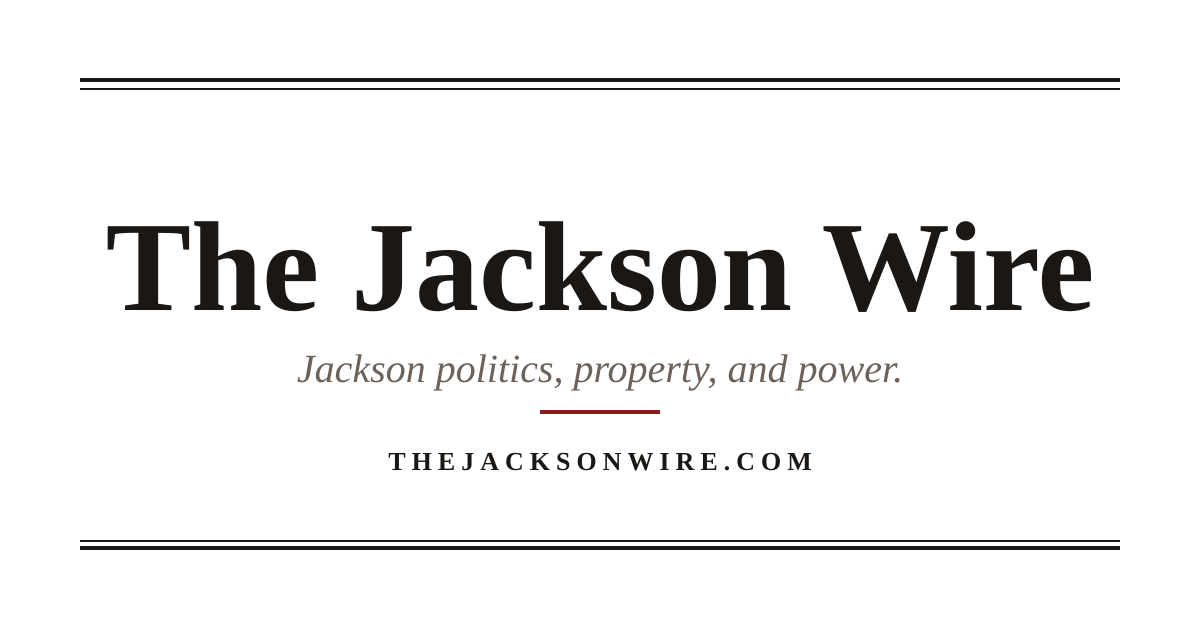
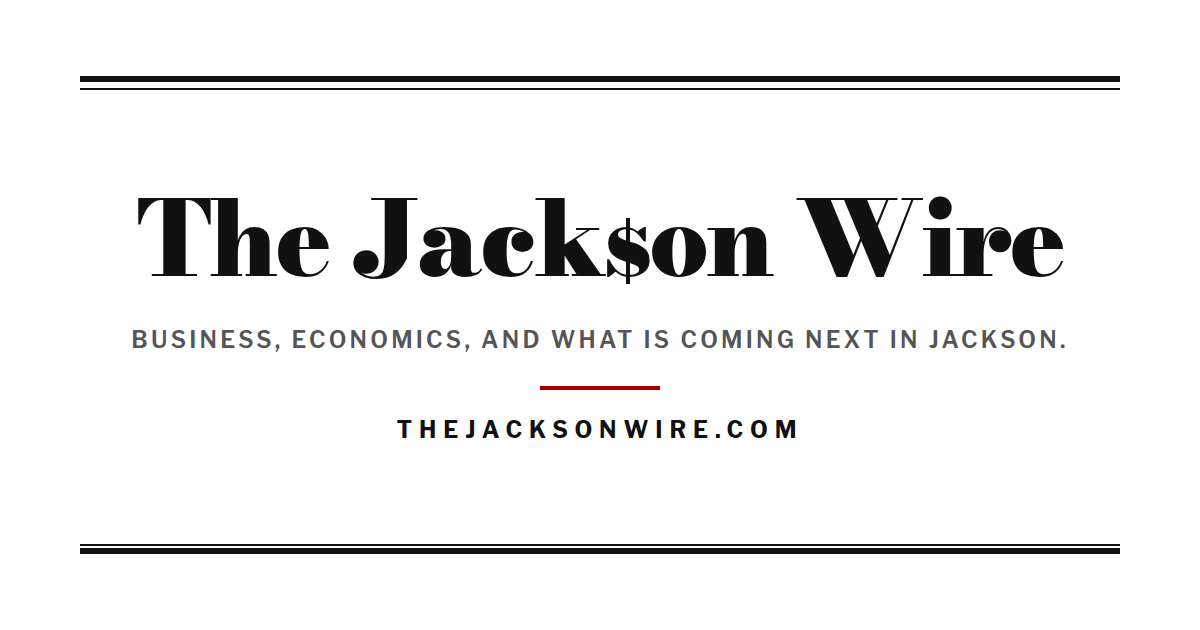
Share image: current tagline and the Jack$on wordmark; no dashes in titles
- app/opengraph-image.png, the picture Facebook and other sites show when
  the home page or a section page is shared, still carried May's tagline,
  "Jackson politics, property, and power." It now shows the current one,
  "Business, economics, and what is coming next in Jackson.", with the
  Jack$on wordmark in the site's fonts. Added alt text for it.
- Page and share titles joined the name with an em dash, which the house
  style keeps out of reader-facing copy. They now use " | ", matching the
  existing title template.

Claude-Session: https://claude.ai/code/session_019QKA2F3fTsuQGsFcDQXe5S

Changed region(s): [[0.0617, 0.3016, 0.925, 0.754], [0.0617, 0.8444, 0.925, 0.9048], [0.0925, 0.1206, 0.925, 0.1508]]

diff --git a/app/meetings/page.tsx b/app/meetings/page.tsx
@@ -20,12 +20,12 @@ export const metadata: Metadata = {
   alternates: { canonical: "/meetings" },
   openGraph: {
     type: "website",
-    title: `The Record — ${site.name}`,
+    title: `The Record | ${site.name}`,
     description: DEK,
     url: absoluteUrl("/meetings"),
     siteName: site.name,
   },
-  twitter: { card: "summary_large_image", title: `The Record — ${site.name}`, description: DEK },
+  twitter: { card: "summary_large_image", title: `The Record | ${site.name}`, description: DEK },
 };
 
 function monthLabel(ym: string): string {
@@ -50,7 +50,7 @@ export default async function MeetingsPage({ searchParams }: PageProps<"/meeting
   const jsonLd = {
     "@context": "https://schema.org",
     "@type": "CollectionPage",
-    name: `The Record — ${site.name}`,
+    name: `The Record | ${site.name}`,
     description: DEK,
     url: absoluteUrl("/meetings"),
     isPartOf: { "@id": absoluteUrl("/#org") },

diff --git a/app/layout.tsx b/app/layout.tsx
@@ -54,7 +54,7 @@ const sourceSerif = Source_Serif_4({
 export const metadata: Metadata = {
   metadataBase: new URL(site.url),
   title: {
-    default: `${site.name} — ${site.tagline}`,
+    default: `${site.name} | ${site.tagline}`,
     template: `%s | ${site.name}`,
   },
   description: site.description,
@@ -68,14 +68,14 @@ export const metadata: Metadata = {
   openGraph: {
     type: "website",
     siteName: site.name,
-    title: `${site.name} — ${site.tagline}`,
+    title: `${site.name} | ${site.tagline}`,
     description: site.description,
     url: site.url,
     locale: "en_US",
   },
   twitter: {
     card: "summary_large_image",
-    title: `${site.name} — ${site.tagline}`,
+    title: `${site.name} | ${site.tagline}`,
     description: site.description,
   },
   // Set NEXT_PUBLIC_GOOGLE_SITE_VERIFICATION in the deployment environment to

diff --git a/app/pipeline/page.tsx b/app/pipeline/page.tsx
@@ -31,14 +31,14 @@ export const metadata: Metadata = {
   alternates: { canonical: "/pipeline" },
   openGraph: {
     type: "website",
-    title: `The Pipeline — ${site.name}`,
+    title: `The Pipeline | ${site.name}`,
     description: DEK,
     url: absoluteUrl("/pipeline"),
     siteName: site.name,
   },
   twitter: {
     card: "summary_large_image",
-    title: `The Pipeline — ${site.name}`,
+    title: `The Pipeline | ${site.name}`,
     description: DEK,
   },
 };
@@ -72,7 +72,7 @@ export default function PipelinePage() {
   const jsonLd = {
     "@context": "https://schema.org",
     "@type": "CollectionPage",
-    name: `The Pipeline — ${site.name}`,
+    name: `The Pipeline | ${site.name}`,
     description: DEK,
     url: absoluteUrl("/pipeline"),
     isPartOf: { "@id": absoluteUrl("/#org") },

diff --git a/app/economy/sales-tax/page.tsx b/app/economy/sales-tax/page.tsx
@@ -58,12 +58,12 @@ export const metadata: Metadata = {
   alternates: { canonical: "/economy/sales-tax" },
   openGraph: {
     type: "website",
-    title: `Sales Tax Tracker — ${site.name}`,
+    title: `Sales Tax Tracker | ${site.name}`,
     description: DEK,
     url: absoluteUrl("/economy/sales-tax"),
     siteName: site.name,
   },
-  twitter: { card: "summary_large_image", title: `Sales Tax Tracker — ${site.name}`, description: DEK },
+  twitter: { card: "summary_large_image", title: `Sales Tax Tracker | ${site.name}`, description: DEK },
 };
 
 function Tile({ label: l, value, delta }: { label: string; value: string; delta?: string }) {

diff --git a/app/meetings/[id]/page.tsx b/app/meetings/[id]/page.tsx
@@ -35,8 +35,8 @@ export async function generateMetadata({ params }: PageProps<"/meetings/[id]">):
     title,
     description,
     alternates: { canonical: `/meetings/${m.id}` },
-    openGraph: { type: "article", title: `${title} — ${site.name}`, description, url: absoluteUrl(`/meetings/${m.id}`), siteName: site.name },
-    twitter: { card: "summary", title: `${title} — ${site.name}`, description },
+    openGraph: { type: "article", title: `${title} | ${site.name}`, description, url: absoluteUrl(`/meetings/${m.id}`), siteName: site.name },
+    twitter: { card: "summary", title: `${title} | ${site.name}`, description },
   };
 }
 

diff --git a/app/pro/page.tsx b/app/pro/page.tsx
@@ -18,12 +18,12 @@ export const metadata: Metadata = {
   alternates: { canonical: pro.path },
   openGraph: {
     type: "website",
-    title: `${pro.name} — ${site.name}`,
+    title: `${pro.name} | ${site.name}`,
     description: DEK,
     url: absoluteUrl(pro.path),
     siteName: site.name,
   },
-  twitter: { card: "summary_large_image", title: `${pro.name} — ${site.name}`, description: DEK },
+  twitter: { card: "summary_large_image", title: `${pro.name} | ${site.name}`, description: DEK },
 };
 
 const FAQ: { q: string; a: string }[] = [

diff --git a/app/corruption-case/page.tsx b/app/corruption-case/page.tsx
@@ -149,14 +149,14 @@ export const metadata: Metadata = {
   alternates: { canonical: "/corruption-case" },
   openGraph: {
     type: "website",
-    title: `The Corruption Case — ${site.name}`,
+    title: `The Corruption Case | ${site.name}`,
     description: DEK,
     url: absoluteUrl("/corruption-case"),
     siteName: site.name,
   },
   twitter: {
     card: "summary_large_image",
-    title: `The Corruption Case — ${site.name}`,
+    title: `The Corruption Case | ${site.name}`,
     description: DEK,
   },
 };

diff --git a/app/data-centers/page.tsx b/app/data-centers/page.tsx
@@ -90,14 +90,14 @@ export const metadata: Metadata = {
   alternates: { canonical: "/data-centers" },
   openGraph: {
     type: "website",
-    title: `Data Centers — ${site.name}`,
+    title: `Data Centers | ${site.name}`,
     description: DEK,
     url: absoluteUrl("/data-centers"),
     siteName: site.name,
   },
   twitter: {
     card: "summary_large_image",
-    title: `Data Centers — ${site.name}`,
+    title: `Data Centers | ${site.name}`,
     description: DEK,
   },
 };

diff --git a/app/corrections/page.tsx b/app/corrections/page.tsx
@@ -17,14 +17,14 @@ export const metadata: Metadata = {
   alternates: { canonical: "/corrections" },
   openGraph: {
     type: "website",
-    title: `Corrections — ${site.name}`,
+    title: `Corrections | ${site.name}`,
     description: DEK,
     url: absoluteUrl("/corrections"),
     siteName: site.name,
   },
   twitter: {
     card: "summary_large_image",
-    title: `Corrections — ${site.name}`,
+    title: `Corrections | ${site.name}`,
     description: DEK,
   },
 };

diff --git a/app/methodology/page.tsx b/app/methodology/page.tsx
@@ -12,14 +12,14 @@ export const metadata: Metadata = {
   alternates: { canonical: "/methodology" },
   openGraph: {
     type: "website",
-    title: `Methodology — ${site.name}`,
+    title: `Methodology | ${site.name}`,
     description: DEK,
     url: absoluteUrl("/methodology"),
     siteName: site.name,
   },
   twitter: {
     card: "summary_large_image",
-    title: `Methodology — ${site.name}`,
+    title: `Methodology | ${site.name}`,
     description: DEK,
   },
 };

diff --git a/app/explainers/page.tsx b/app/explainers/page.tsx
@@ -23,14 +23,14 @@ export const metadata: Metadata = {
   alternates: { canonical: "/explainers" },
   openGraph: {
     type: "website",
-    title: `Explainers — ${site.name}`,
+    title: `Explainers | ${site.name}`,
     description: DEK,
     url: absoluteUrl("/explainers"),
     siteName: site.name,
   },
   twitter: {
     card: "summary_large_image",
-    title: `Explainers — ${site.name}`,
+    title: `Explainers | ${site.name}`,
     description: DEK,
   },
 };

diff --git a/app/archive/page.tsx b/app/archive/page.tsx
@@ -19,14 +19,14 @@ export const metadata: Metadata = {
   alternates: { canonical: "/archive" },
   openGraph: {
     type: "website",
-    title: `Archive — ${site.name}`,
+    title: `Archive | ${site.name}`,
     description: DEK,
     url: absoluteUrl("/archive"),
     siteName: site.name,
   },
   twitter: {
     card: "summary_large_image",
-    title: `Archive — ${site.name}`,
+    title: `Archive | ${site.name}`,
     description: DEK,
   },
 };
